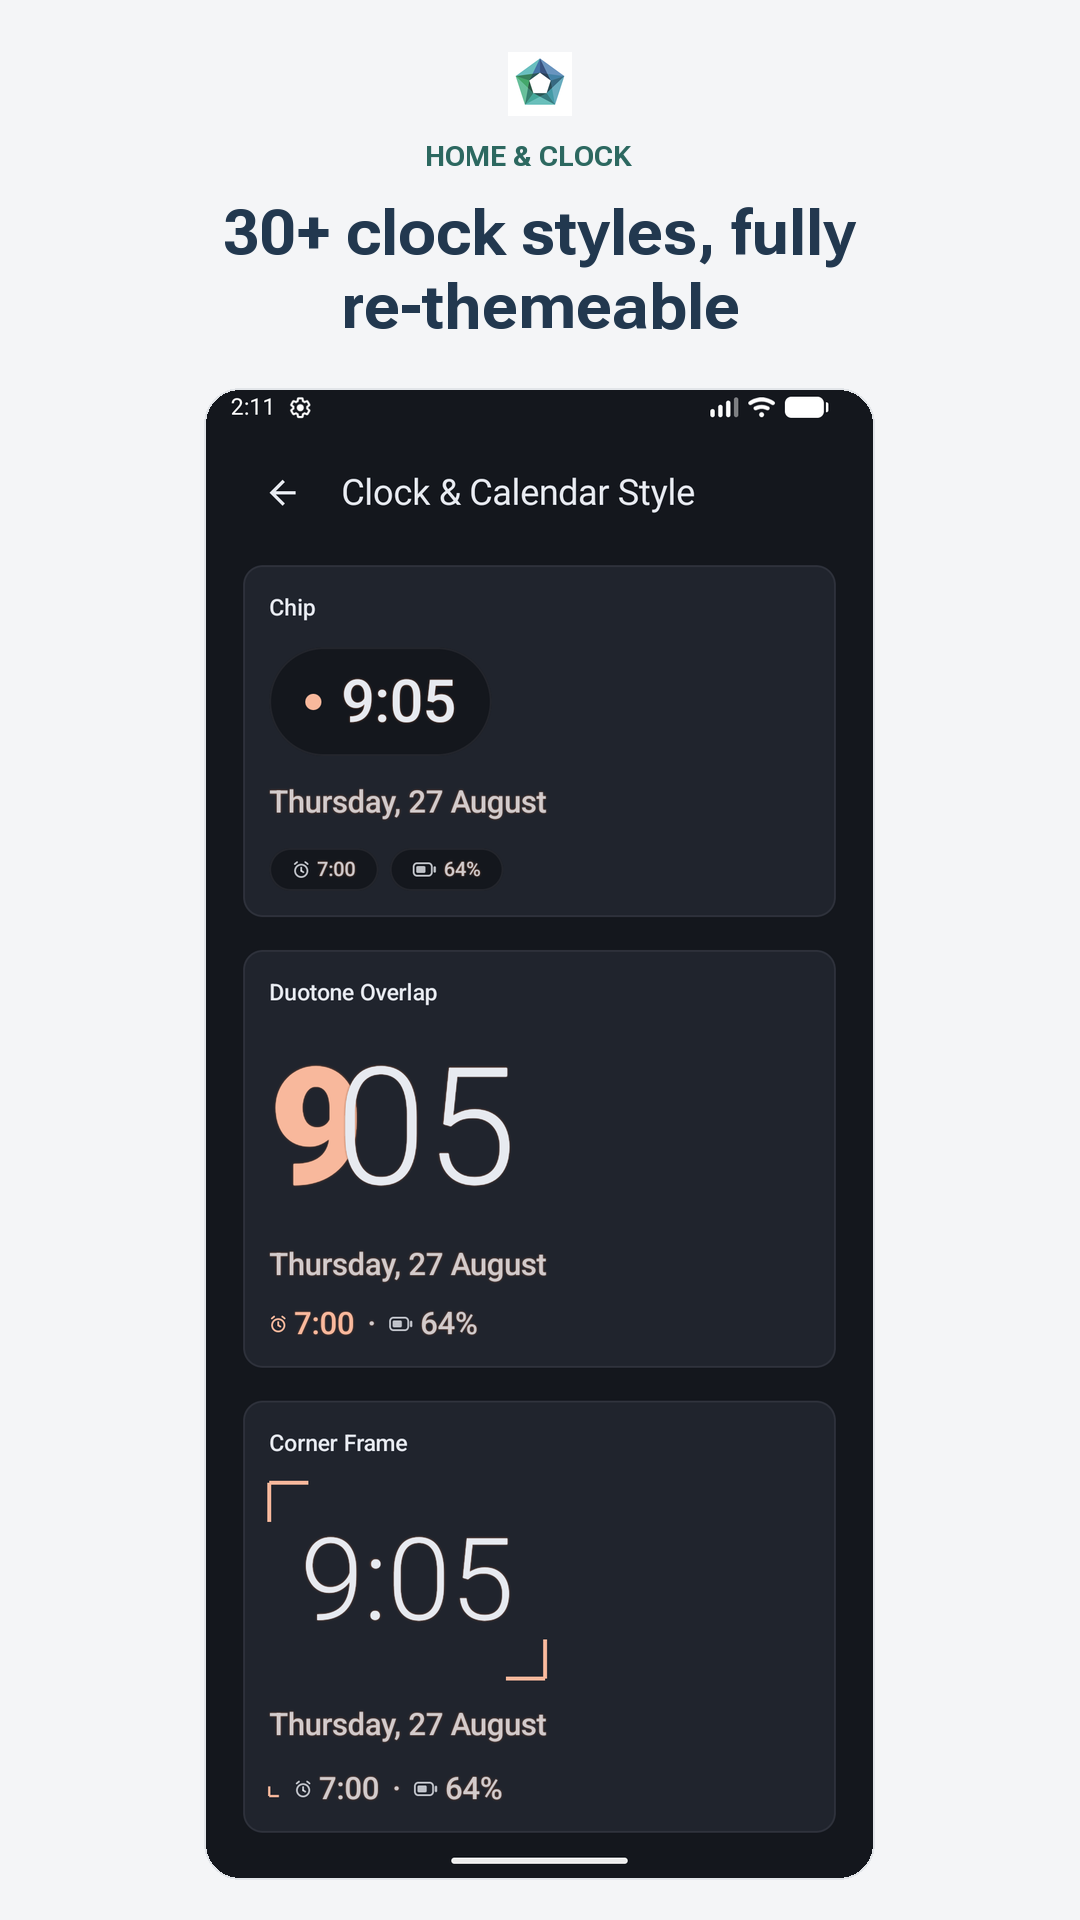
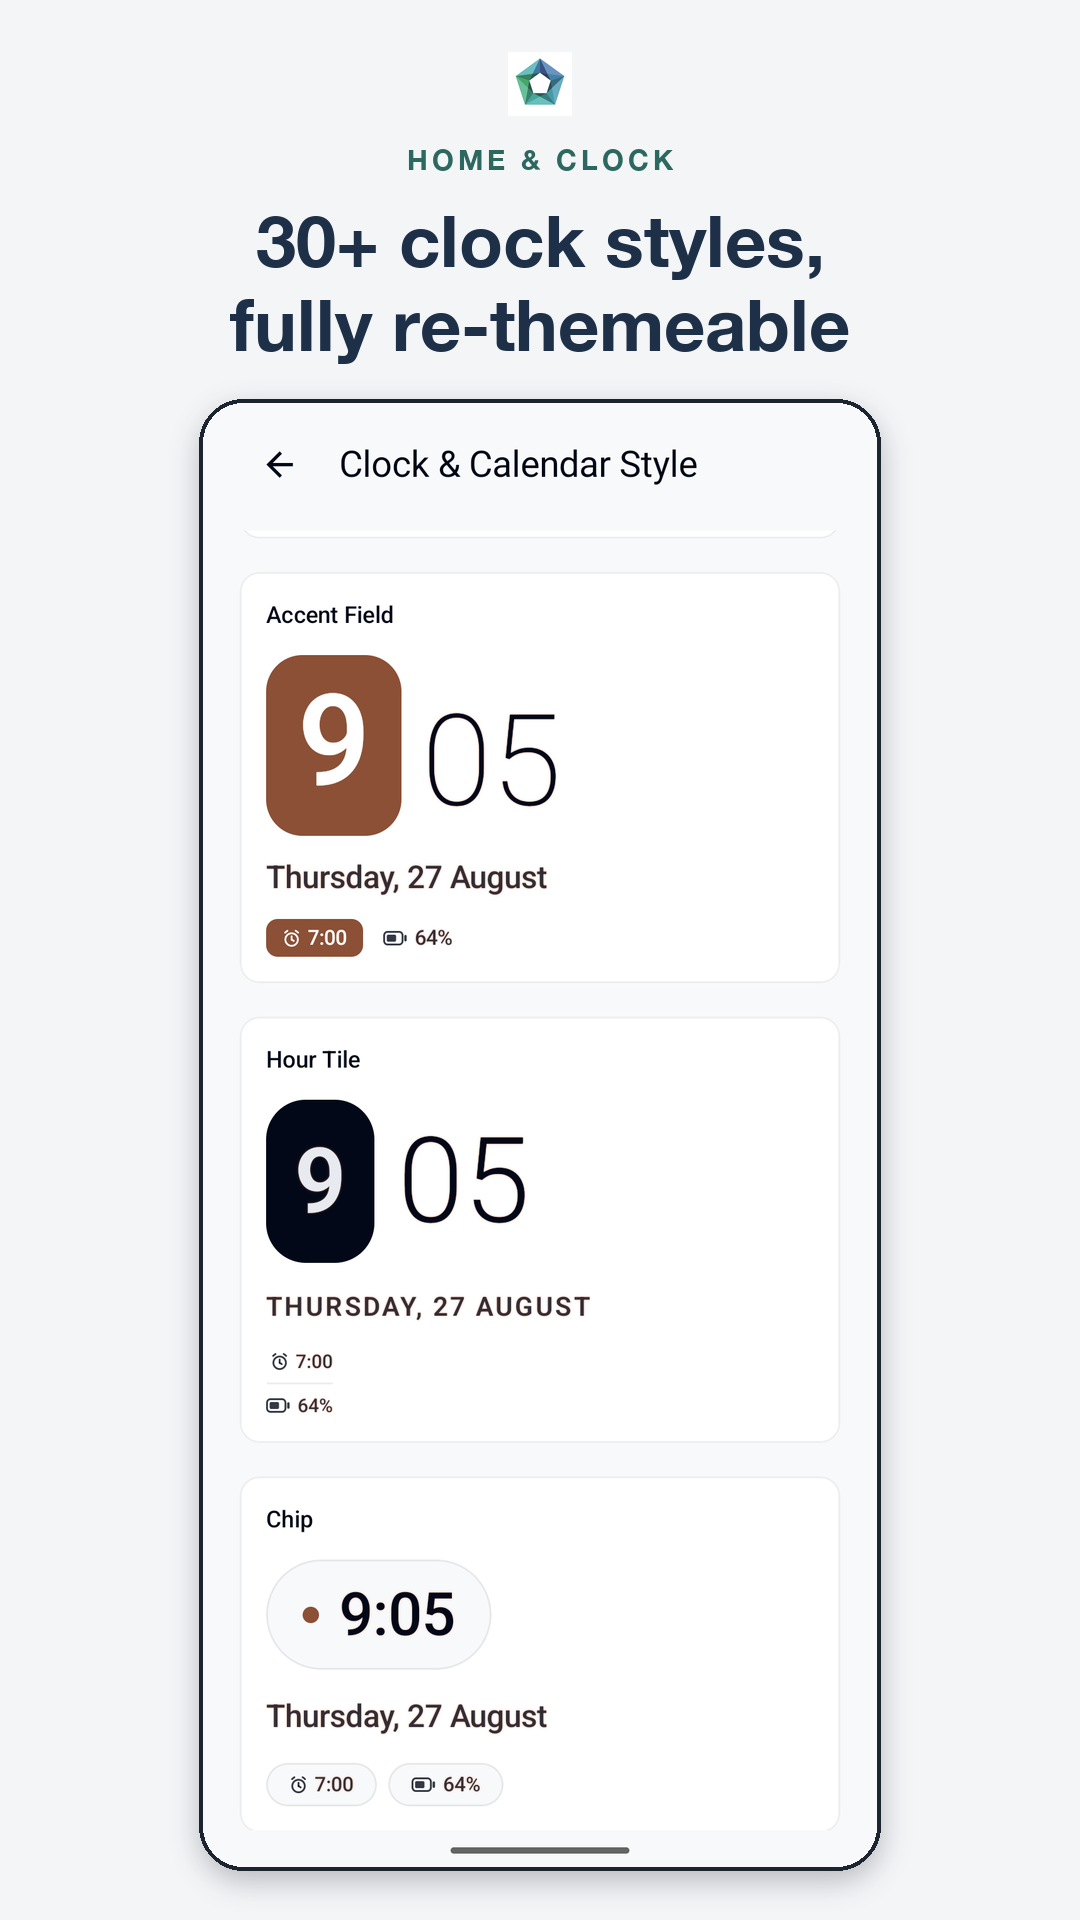
Refresh Play Store listing text and screenshots
Rewrite the short and full descriptions to cover all current capabilities,
and rebuild the phone screenshots (8 slides) from emulator captures with a
new build_screenshots.py template script.

diff --git a/play-store-assets/build_screenshots.py b/play-store-assets/build_screenshots.py
@@ -1,0 +1,123 @@
+#!/usr/bin/env python3
+"""Build the Play Store phone screenshots (1080x1920) from raw emulator captures.
+
+Each slide = logo + tracked eyebrow label + headline + the raw capture (status bar
+cropped off) in a rounded, outlined frame. Raw captures live in raw/ (1080x2400,
+taken on the emulator); output goes to screenshots/.
+
+Usage (from play-store-assets/):
+    python3 build_screenshots.py            # build all slides
+    python3 build_screenshots.py home       # build one slide by raw name
+"""
+import sys
+from pathlib import Path
+
+from PIL import Image, ImageDraw, ImageFilter, ImageFont
+
+HERE = Path(__file__).parent
+CANVAS = (1080, 1920)
+BG = (244, 245, 247)
+EYEBROW = (44, 104, 96)
+HEADLINE = (30, 48, 72)
+FRAME = (28, 36, 48)
+FONT = "/System/Library/Fonts/HelveticaNeue.ttc"
+BOLD = 1
+STATUS_BAR_PX = 66  # cropped off every raw capture
+PHONE_W = 680
+PHONE_TOP = 400
+PHONE_H = 1470
+MAX_PHONE_W = 820
+RADIUS = 44
+LOGO = 64
+
+# (raw name, output name, eyebrow, headline[, crop_top])
+# crop_top replaces the status-bar crop and scales the phone up to fill the slide height.
+SLIDES = [
+    ("facets", "01_facets", "FACETS", "Switch your whole setup in one swipe"),
+    ("home", "02_home", "HOME", "A launcher built around how you use your phone"),
+    ("clock_styles", "03_clock_styles", "HOME & CLOCK", "30+ clock styles, fully re-themeable"),
+    ("drawer", "04_drawer", "APP DRAWER", "List or grid, your call"),
+    ("search", "05_search", "SEARCH", "Find an app or a contact, then act in one tap"),
+    ("widgets", "06_widgets", "WIDGETS", "Widgets have their own home"),
+    ("folders", "07_folders", "FOLDERS", "Group apps your way"),
+    ("appearance", "08_appearance", "APPEARANCE", "Your launcher, your look", 468),
+]
+
+
+def tracked(draw, cx, top, text, font, fill, tracking=4):
+    widths = [draw.textlength(c, font=font) for c in text]
+    x = cx - (sum(widths) + tracking * (len(text) - 1)) / 2
+    for c, w in zip(text, widths):
+        draw.text((x, top), c, font=font, fill=fill)
+        x += w + tracking
+
+
+def _greedy(draw, text, font, max_w):
+    lines, cur = [], ""
+    for word in text.split():
+        trial = f"{cur} {word}".strip()
+        if draw.textlength(trial, font=font) <= max_w or not cur:
+            cur = trial
+        else:
+            lines.append(cur)
+            cur = word
+    return lines + [cur]
+
+
+def wrap(draw, text, font, max_w):
+    """Greedy wrap, then tighten the width so lines come out balanced."""
+    n = len(_greedy(draw, text, font, max_w))
+    best = max_w
+    while best > 200 and len(_greedy(draw, text, font, best - 10)) == n:
+        best -= 10
+    return _greedy(draw, text, font, best)
+
+
+def build(raw: str, out: str, eyebrow: str, headline: str, crop_top: int | None = None) -> None:
+    img = Image.new("RGB", CANVAS, BG)
+    d = ImageDraw.Draw(img)
+
+    logo = Image.open(HERE / "icon-512.png").convert("RGBA").resize((LOGO, LOGO), Image.LANCZOS)
+    img.paste(logo, ((CANVAS[0] - LOGO) // 2, 52), logo)
+
+    tracked(d, CANVAS[0] / 2, 142, eyebrow, ImageFont.truetype(FONT, 28, index=BOLD), EYEBROW)
+
+    font = ImageFont.truetype(FONT, 72, index=BOLD)
+    y = 196
+    for line in wrap(d, headline, font, CANVAS[0] - 140):
+        d.text(((CANVAS[0] - d.textlength(line, font=font)) / 2, y), line, font=font, fill=HEADLINE)
+        y += 84
+
+    shot = Image.open(HERE / "raw" / f"{raw}.png").convert("RGB")
+    shot = shot.crop((0, crop_top or STATUS_BAR_PX, shot.width, shot.height))
+    phone_w = PHONE_W if crop_top is None else min(MAX_PHONE_W, round(PHONE_H * shot.width / shot.height))
+    ph = round(phone_w * shot.height / shot.width)
+    shot = shot.resize((phone_w, ph), Image.LANCZOS)
+    left = (CANVAS[0] - phone_w) // 2
+
+    mask = Image.new("L", (phone_w, ph), 0)
+    ImageDraw.Draw(mask).rounded_rectangle([0, 0, phone_w - 1, ph - 1], radius=RADIUS, fill=255)
+
+    shadow = Image.new("L", CANVAS, 0)
+    ImageDraw.Draw(shadow).rounded_rectangle(
+        [left, PHONE_TOP + 10, left + phone_w, PHONE_TOP + ph + 10], radius=RADIUS, fill=70
+    )
+    shadow = shadow.filter(ImageFilter.GaussianBlur(14))
+    img.paste(Image.new("RGB", CANVAS, (20, 28, 40)), (0, 0), shadow)
+
+    img.paste(shot, (left, PHONE_TOP), mask)
+    ImageDraw.Draw(img).rounded_rectangle(
+        [left - 1, PHONE_TOP - 1, left + phone_w, PHONE_TOP + ph], radius=RADIUS, outline=FRAME, width=4
+    )
+
+    path = HERE / "screenshots" / f"{out}.png"
+    path.parent.mkdir(exist_ok=True)
+    img.save(path)
+    print(f"wrote {path.relative_to(HERE)} (phone bottom y={PHONE_TOP + ph})")
+
+
+if __name__ == "__main__":
+    only = set(sys.argv[1:])
+    for raw, out, eyebrow, headline, *crop in SLIDES:
+        if not only or raw in only:
+            build(raw, out, eyebrow, headline, *crop)

diff --git a/play-store-assets/store-listing.md b/play-store-assets/store-listing.md
@@ -7,34 +7,70 @@ Launcher, Lawnchair, Niagara, etc. are all listed).
 
 ## Short description (max 80 characters)
 
-Option A (79 chars):
-> A minimalist launcher built around how you use your phone — work, personal, focus in one swipe.
+> A minimal home screen with switchable setups for work, personal and focus.
 
-Option B (77 chars):
-> Switch your whole home screen setup in one tap. Facets, done right.
+(74 chars)
 
-## Full description (max 4000 characters — this draft is ~1,750)
+## Full description (max 4000 characters — this draft is ~2,900)
 
 ```
-Facet Launcher is a fast, minimal Android home screen built around one idea: your phone isn't used the same way all day. Switch your whole setup — apps, dock, clock, calendar — in one swipe with Facets.
+Facet Launcher is a fast, minimal home screen built around one idea: your phone is not used the same way all day. Create separate setups, called facets, and switch between them in a single tap.
 
 FACETS
-Set up to 3 independent facets: a Work facet with only what you need at your desk, a Personal facet with everything else, a Focus facet with almost nothing at all. Long-press an empty part of the home screen to browse live previews and switch instantly, or head into Settings to fine-tune each one.
+Create up to three independent facets, for example Work, Personal and Focus. Each facet can have its own clock, calendar, favorite apps and dock, or inherit shared defaults. Swipe left on the home screen to preview every facet live and switch instantly.
 
-30+ CLOCK STYLES
-From clean typographic layouts to shape-based faceted marks, every clock template supports its own font, color, weight, and alignment. Drag to resize and reposition, or pick a different style per facet.
+HOME SCREEN
+- A clean home screen with a clock, date and your favorite apps
+- Show Favorites, Recents or Most Used apps in the home list
+- Choose left or right alignment, icons, text or both, and top or bottom placement
+- A dock of up to five apps, shared across facets or set per facet
+- Group apps into folders on the dock and in your favorites
+- Notification badges as a dot or a count
 
-SMART APP DRAWER
-Browse your apps as a letter-indexed list with quick search, or switch to a dense grid. Type to search across apps and, optionally your settings, and your contacts  — with quick actions like call or message right from the result.
+CLOCK AND CALENDAR
+- More than 30 clock styles, from clean typography to shape-based designs
+- Choose font, weight, color, alignment and date format for each style
+- Drag to move the clock and resize it directly on the home screen
+- Optionally show upcoming calendar events below the clock, with per-calendar colors
+
+APP DRAWER
+- List view with a letter index, or a grid in several sizes
+- Fast search across your apps, and optionally your contacts and system settings
+- Call, message or email a contact straight from the search results
+- Separate tabs for your Work Profile and Private Space apps
+- Long-press any app for app info, uninstall and its own app shortcuts
+- Adjustable drawer opacity and search bar position
 
 WIDGET HUB
-Widgets get their own dedicated space, a swipe away from your home screen, instead of crowding your app list. Add up to 20, drag to reposition, resize freely.
+Widgets get their own dedicated screen, one swipe from home, so they never crowd your apps. Add up to 20 widgets, drag to arrange them and resize them freely.
 
-BUILT FOR PRIVACY
-Facet Launcher doesn't request internet access at all. There's no account, no analytics, no ads — every feature runs entirely on your device.
+APPEARANCE
+- Light, dark or system theme
+- Accent color taken from your wallpaper, or a fixed color of your choice
+- Choice of launcher font and font weight
+- Optional monochrome icon style
+- Your wallpaper shows through everywhere
 
-Facet Launcher is in active development. Follow along or file feedback on GitHub: github.com/rohitganjam/facet-launcher-site
+BACKUP AND RESTORE
+Export your complete setup to a file and restore it on any device.
+
+PRIVACY
+Facet Launcher does not have internet access. There are no accounts, no analytics and no ads, and everything runs on your device. Optional features ask for permission only when you turn them on: Calendar for events on the clock, Contacts for contact search, Usage access for Recents and Most Used, and Notification access for badges. You can decline any of them and the rest of the launcher works normally.
+
+REQUIREMENTS
+Android 13 or later. Set Facet Launcher as your default home app from Settings to get the full experience.
+
+Questions or feedback: <support email or site — fill in before publishing>
 ```
 
-Note: the GitHub link in the description points at the public marketing-site repo, not the
-private source repo — swap it for whatever you want surfaced publicly.
+Verify before publishing: contact quick actions (call/message/email) and per-calendar colors
+match the current build; fill in the support contact (the old GitHub link pointed at the
+marketing-site repo and was dropped).
+
+## Screenshots (8 phone screenshots, 1080x1920)
+
+`screenshots/01`–`08`, in upload order: facets, home, clock styles, drawer, search, widgets,
+folders, appearance. Built from emulator captures in `raw/` (status bar cropped off) by
+`python3 build_screenshots.py` — edit the `SLIDES` list for copy changes, replace a `raw/*.png`
+to refresh a screen. The old resize slide was dropped to stay within Play's 8-shot limit
+(`raw/resize.png` is kept if you want it back).
